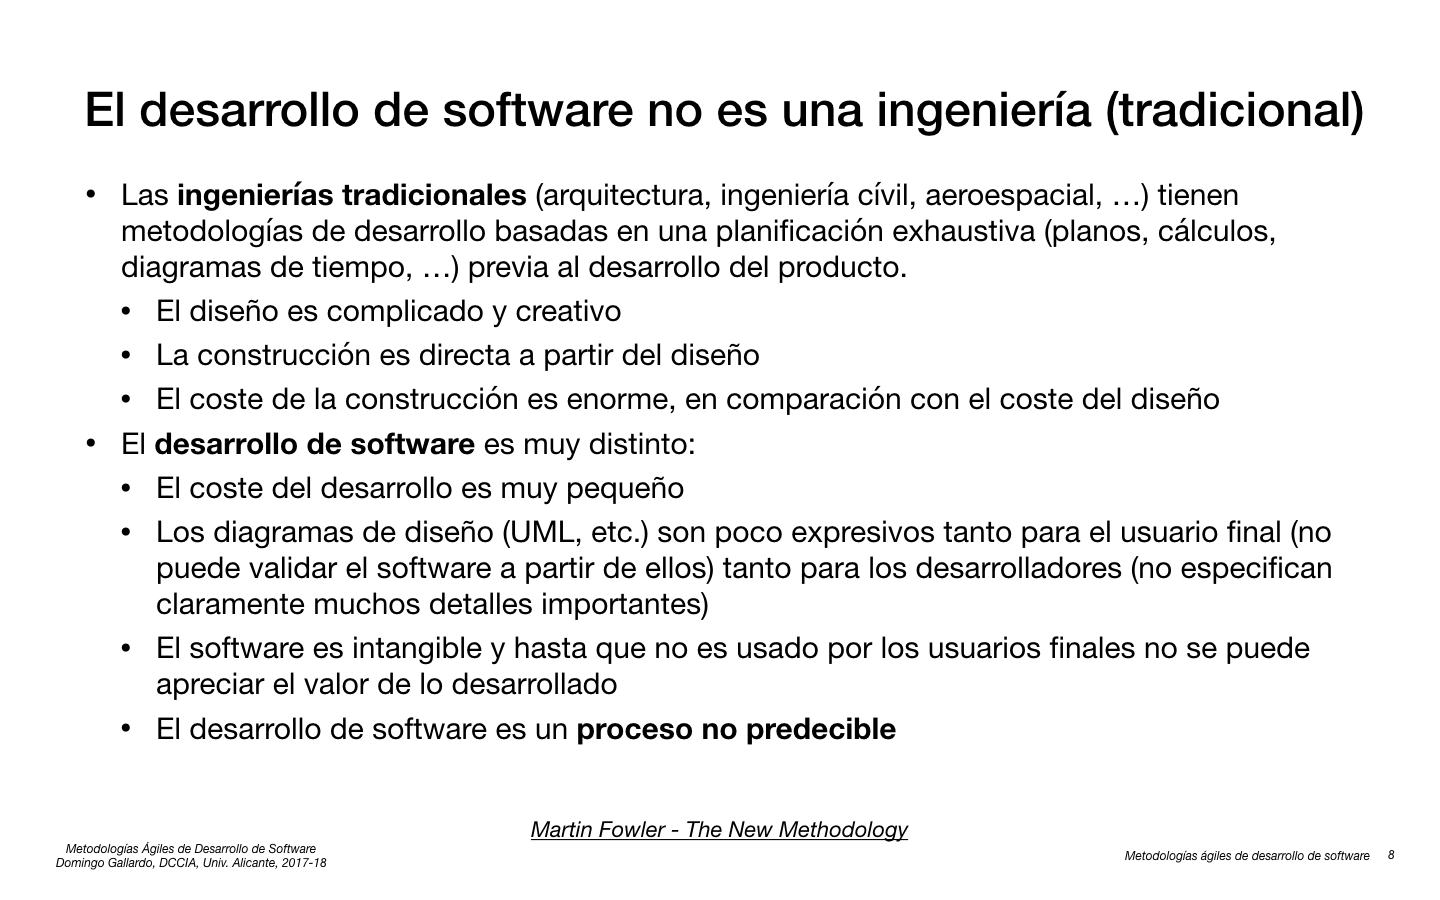
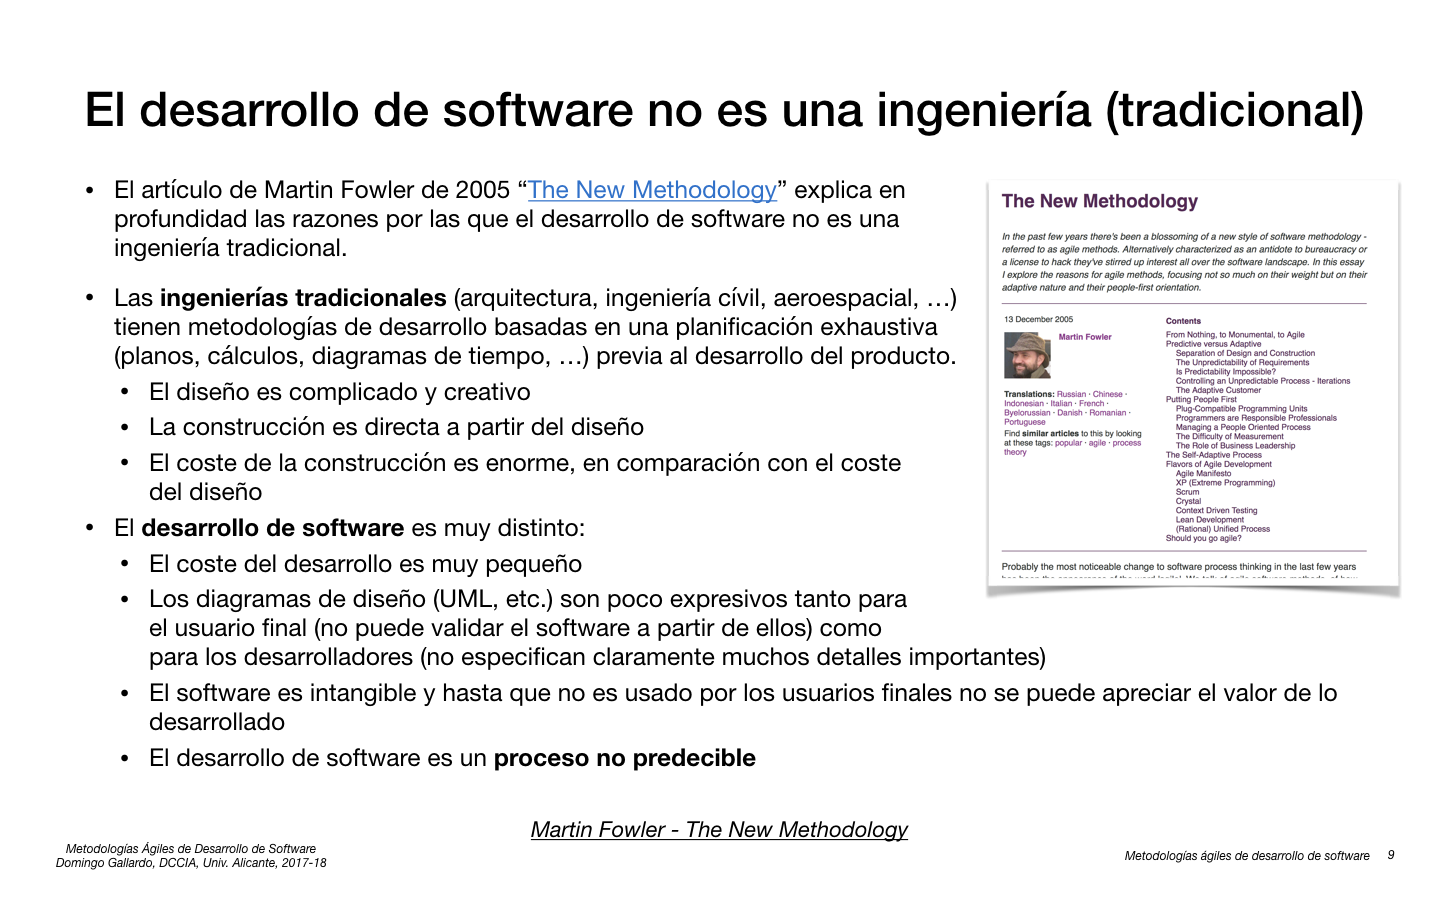
Cambios en sesión 2

Changed region(s): [[0.0625, 0.1867, 0.9688, 0.8711]]

diff --git a/sesiones/02-metodologias-agiles-de-desarrollo-de-software/metodologias-agiles-de-desarrollo-de-software.md b/sesiones/02-metodologias-agiles-de-desarrollo-de-software/metodologias-agiles-de-desarrollo-de-software.md
@@ -63,6 +63,8 @@
   escribir y publicar una actualización en **minutos o horas**.
 - El software debe ser _soft_.
 
+<kbd><img src="diapositivas/metodologias-agiles-de-desarrollo-de-software.007b.png" width="800px"></kbd>
+
 <kbd><img src="diapositivas/metodologias-agiles-de-desarrollo-de-software.008.png" width="800px"></kbd>
 
 - **Obligatorio leer y estudiar** el artículo de Martin Fowler
@@ -78,6 +80,58 @@
   - El enlace original al artículo de Martin Fowler
     [es este](http://www.martinfowler.com/articles/newMethodology.html).
 
+<kbd><img src="diapositivas/metodologias-agiles-de-desarrollo-de-software.008b.png" width="800px"></kbd>
+
+- En agosto de 2016 tuvo mucha repercusión el caso de un ingeniero de
+  Google (James Damore) que distribuyó entre las redes internas de la
+  empresa un informe escrito por él que ponía en cuestión la política
+  de diversidad de Google (consultar en la
+  [Wikipedia](https://en.wikipedia.org/wiki/Google%27s_Ideological_Echo_Chamber)). Google
+  promueve de forma activa la incorporación de mujeres en los
+  distintos equipos de la empresa, para intentar compensar el
+  [problema de la falta de mujeres en empresas tecnológicas](https://politikon.es/2015/06/30/las-ninas-no-les-gusta-la-informatica/). El
+  informe salió a la luz pública, creó una gran polémica y Google
+  zanjó el tema despidiendo a Damore por incumplir el código de
+  conducta de la empresa.
+  
+- Se publicaron en las redes muchas opiniones en contra del informe y
+  la postura de Damore. Un artículo en concreto, el escrito en Medium
+  por Yonathan Zunger
+  ([So, about this Googler’s manifesto.](https://medium.com/@yonatanzunger/so-about-this-googlers-manifesto-1e3773ed1788))
+  merece en mi opinión que le dediquemos un tiempo, por hacer una
+  reflexión muy interesante sobre qué considera el autor que es una
+  ingeniería. En concreto, el desarrollo de software:
+
+  - La gente que está empezando a hacer ingeniería piensa que lo
+    fundamental es pasarse todo el día delante del ordenador haciendo
+    cosas como hyper-optimizar un bucle o limpiar el API de una clase.
+    Cuando estás empezando en un trabajo de ingeniero/a esta es la
+    mayor parte de tu trabajo: algo directo y limitado que puede
+    hacerse bien o mal, sin matices, y en donde vas aprendiendo tus
+    habilidades básicas. Más adelante, cuando coges experiencia, llega
+    el momento en el que haces ingeniería de verdad: tu trabajo ya no
+    sólo es hacer, sino tomar decisiones.
+
+  - La ingeniería no es el arte de construir dispositivos; es el arte
+    de resolver problemas, mejorar la vida de las personas. Los
+    dispositivos (software en nuestro caso) no son un fin, sino un
+    medio. Resolver problemas significa lo primero de todo
+    entenderlos. Y eso significa entender a las personas, sus
+    preferencias, las formas en las que interactuarán con nuestro
+    sistema. Todo esto es fundamental cuando estamos construyendo un
+    sistema. Todo el equipo debe conocer profundamente el producto que
+    se está construyendo.
+
+  - Una gran parte del trabajo del desarrollo de software es
+    comunicación y colaboración; dentro del equipo y con otros grupos.
+    - De esta forma se consigue construir un único sistema, coherente
+      y con características claras, en lugar de veinte sistemas
+      diferentes.
+    - La comunicación es fundamental para gestionar las dependencias y
+      los riesgos.
+    - Así se puede diseñar los límites de modularidad correctos que
+      hacen fácil continuar evolucionando el producto en el futuro.
+
 <kbd><img src="diapositivas/metodologias-agiles-de-desarrollo-de-software.009.png" width="800px"></kbd>
 
 - Juego de palabras en inglés: **_build the right thing_** y **_build
@@ -87,16 +141,6 @@
 - Tan importante como eso es diseñar el conjunto de características
   (_features_) que satisfacen mejor los objetivos finales del
   proyecto: **software que funciona** (_working software_).
-
-<kbd><img src="diapositivas/metodologias-agiles-de-desarrollo-de-software.010.png" width="800px"></kbd>
-
-- Un proyecto con éxito es el resultado de una buena combinación de
-  cuatro elementos: personas, proceso (metodología), producto (alcance
-  y complejidad del software a desarrollar) y tecnología utilizada.
-- Un cambio grande en alguna de estas dimensiones es una decisión de
-  gran calado, que habría que realizar al comienzo de un nuevo
-  proyecto. En los proyectos en marcha se pueden realizar ajustes y
-  **pequeños experimentos** que permitan comprobar cómo mejorar.
 
 <kbd><img src="diapositivas/metodologias-agiles-de-desarrollo-de-software.011.png" width="800px"></kbd>
 
@@ -127,6 +171,41 @@
   que pagarla. Una buena explicación sobre el concepto, con bastante
   detalle, la puedes encontrar en este
   [post de Javier Garzás](http://www.javiergarzas.com/2012/11/deuda-tecnica-2.html).
+
+
+<kbd><img src="diapositivas/metodologias-agiles-de-desarrollo-de-software.013b.png" width="800px"></kbd>
+
+- Cada proyecto se puede ver como la combinación de un presupuesto
+  (dinero), un alcance (lo que hay que hacer) y el tiempo
+  disponible. Y estos tres factores se condicionan, unos a otros. Si
+  se reduce el presupuesto, se puede ver afectado el alcance o el
+  tiempo del proyecto. Si se reduce el tiempo, habrá que reducir el
+  alcance o aumentar el presupuesto. Y si, por ejemplo, se aumenta el
+  alcance (las cosas que hay que entregar), habrá que aumentar el
+  presupuesto y/o el tiempo. Todo ello si se quiere mantener la misma
+  calidad. 
+
+- Una práctica usual de gestión de proyectos software dice que el
+  cliente puede fijar hasta dos de estas tres dimensiones, pero tiene
+  que dejar libre la tercera. Así, si fija el presupuesto y el
+  alcance, debe dejar que sea el equipo de desarrollo quien diga
+  cuánto tiempo. Si el cliente fija tiempo y alcance, debe ser
+  flexible en presupuesto. Y si fija tiempo y presupuesto, debe ser
+  flexible en el alcance.
+
+- El mito del hombre-mes se desmonta (entre otros mitos) en el famoso
+  [libro de Frederick Brooks](https://en.wikipedia.org/wiki/The_Mythical_Man-Month).
+
+<kbd><img src="diapositivas/metodologias-agiles-de-desarrollo-de-software.013c.png" width="800px"></kbd>
+
+- Un proyecto con éxito es el resultado de una buena combinación de
+  cuatro elementos: personas, proceso (metodología), producto (alcance
+  y complejidad del software a desarrollar) y tecnología utilizada.
+- Un cambio grande en alguna de estas dimensiones es una decisión de
+  gran calado, que habría que realizar al comienzo de un nuevo
+  proyecto. En los proyectos en marcha se pueden realizar ajustes y
+  **pequeños experimentos** que permitan comprobar cómo mejorar.
+
 
 <kbd><img src="diapositivas/metodologias-agiles-de-desarrollo-de-software.014.png" width="800px"></kbd>
 
